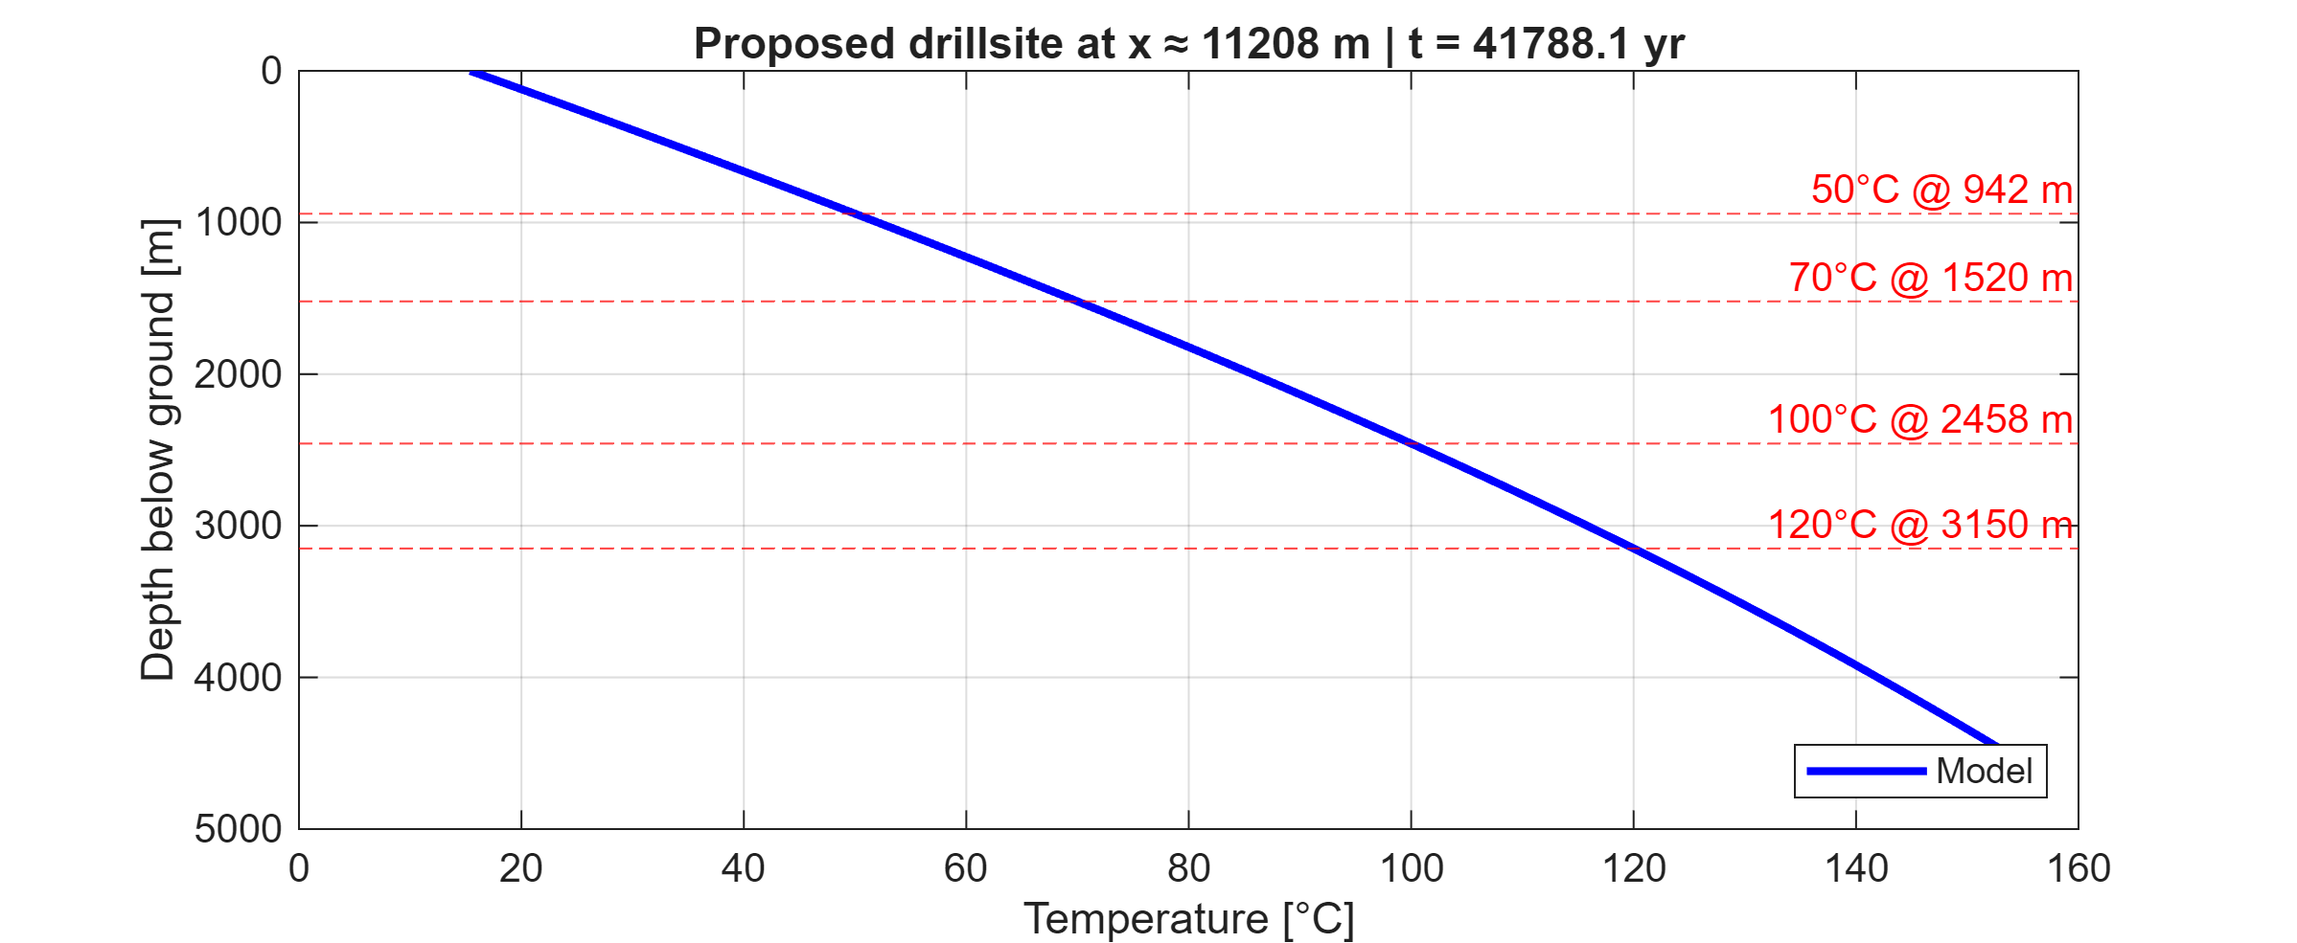
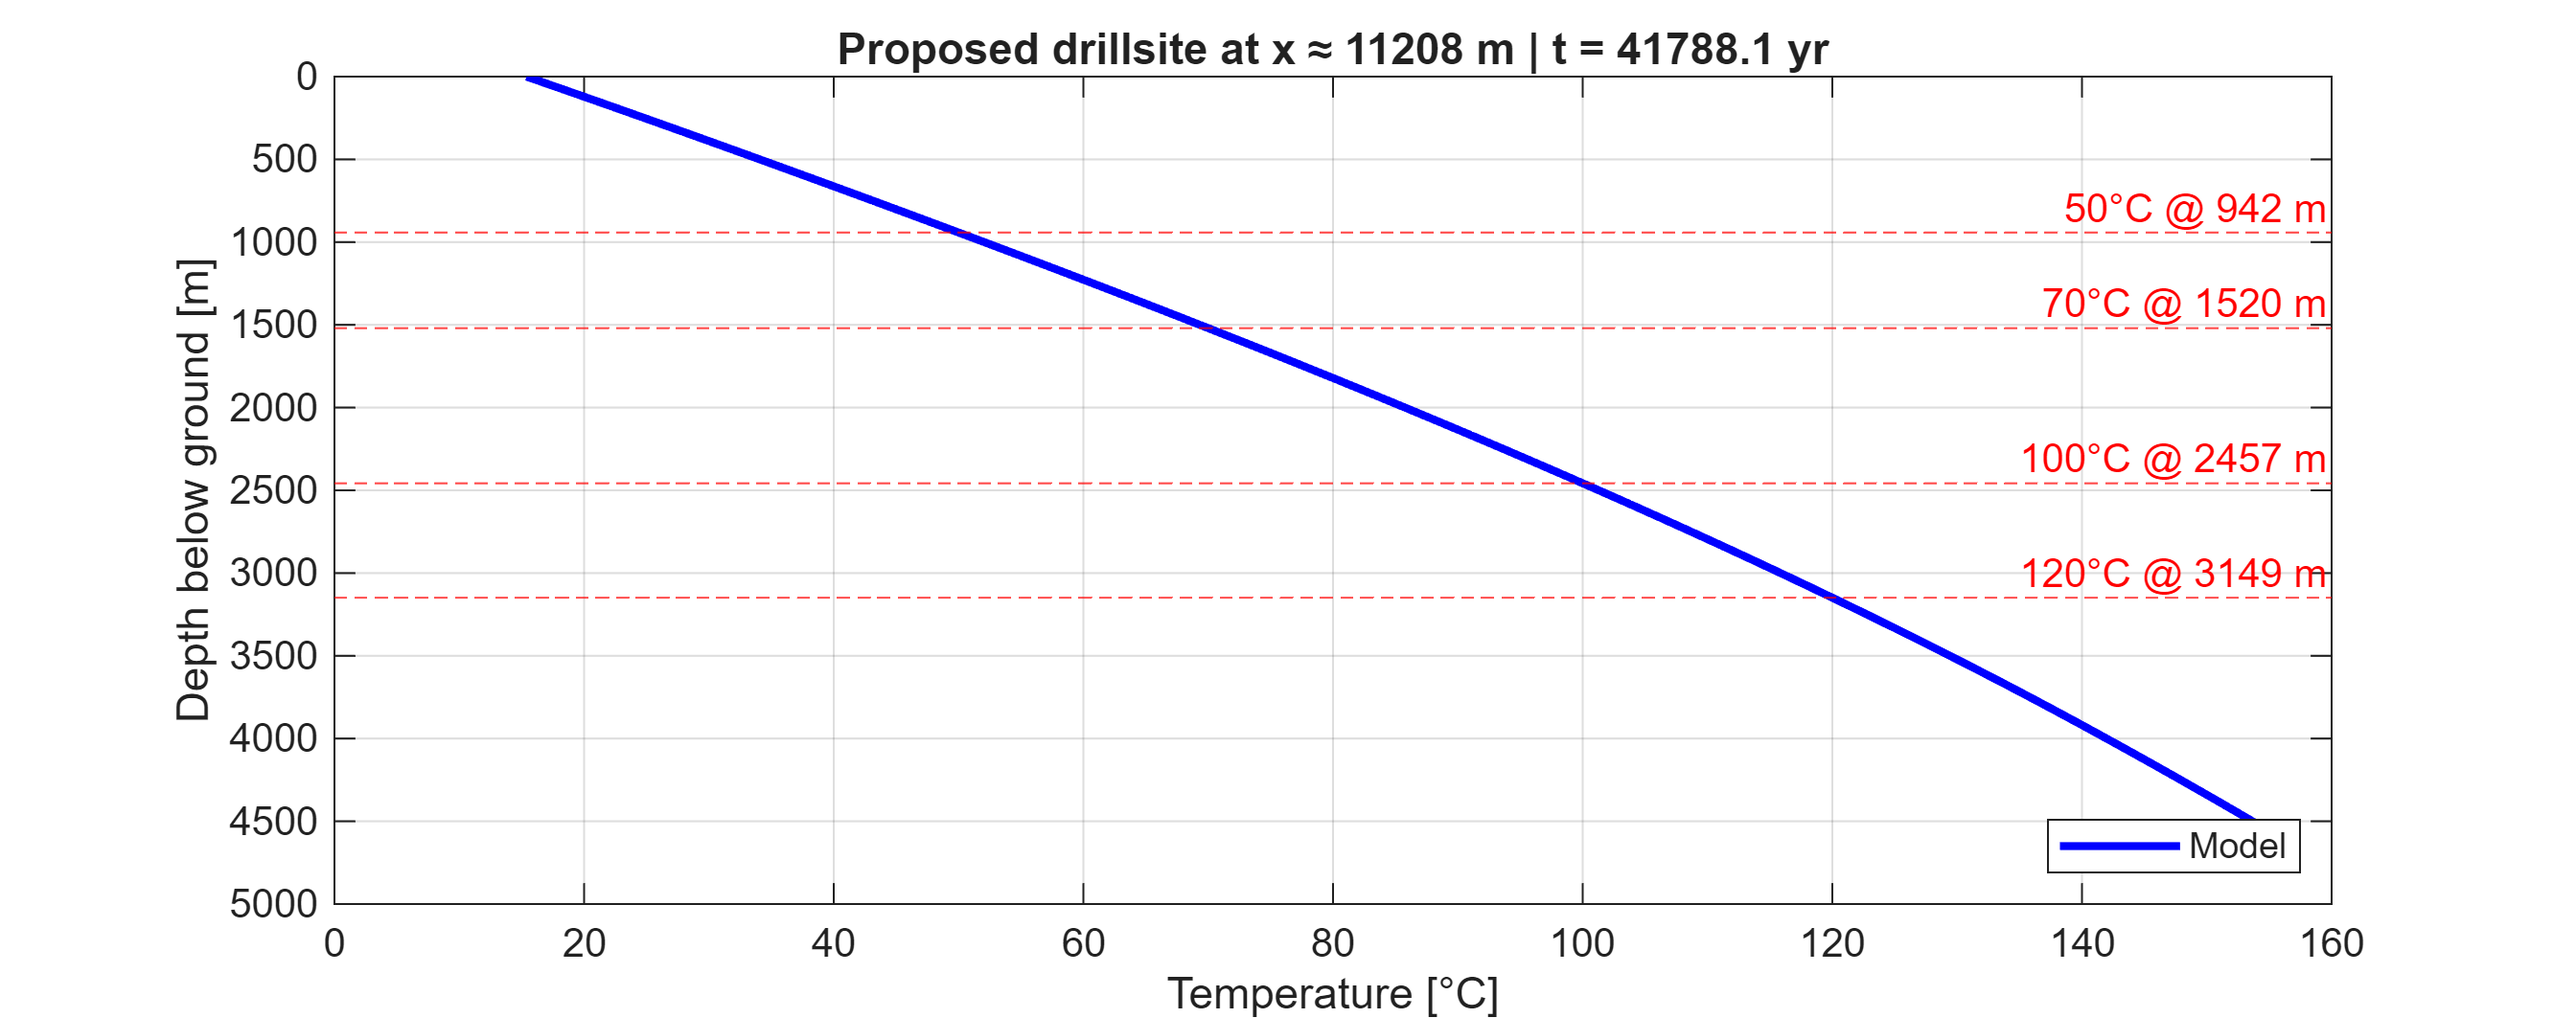
move isotherm labels from fault in figure

diff --git a/src/main.m b/src/main.m
@@ -706,7 +706,7 @@ hold on
 levels = [50 70 100 120];   
 [C,hc] = contour(x,z,T,levels,'k','LineWidth',1.5);
 
-clabel(C,hc,'FontSize',10,'Color','k')
+clabel(C,hc,'FontSize',10,'Color','k','LabelSpacing',400)
 
 xlabel('x [m]')
 ylabel('z [m]')
